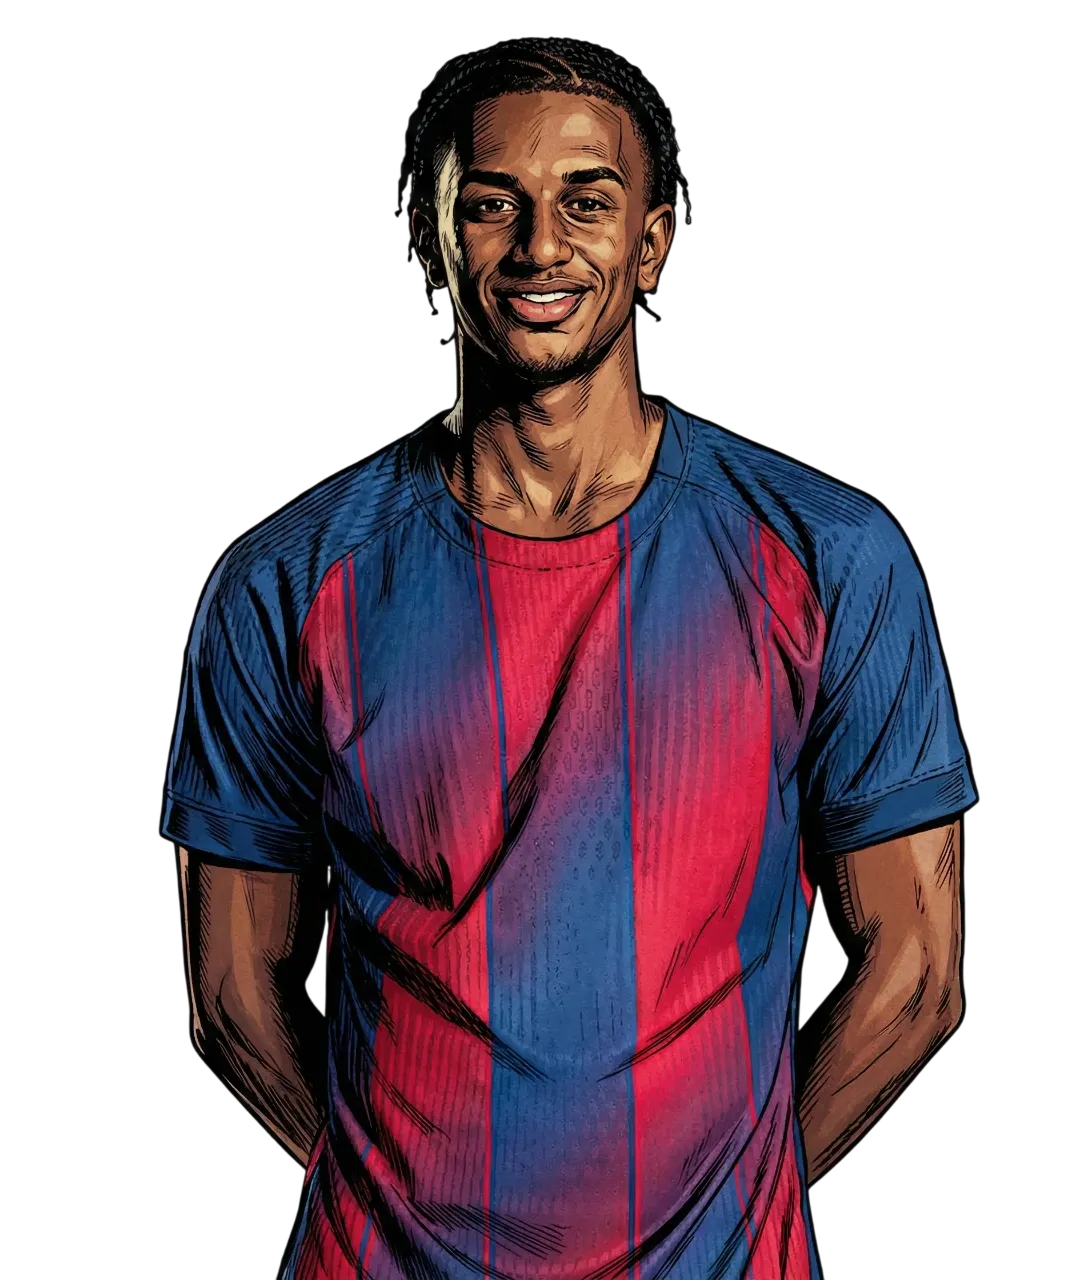
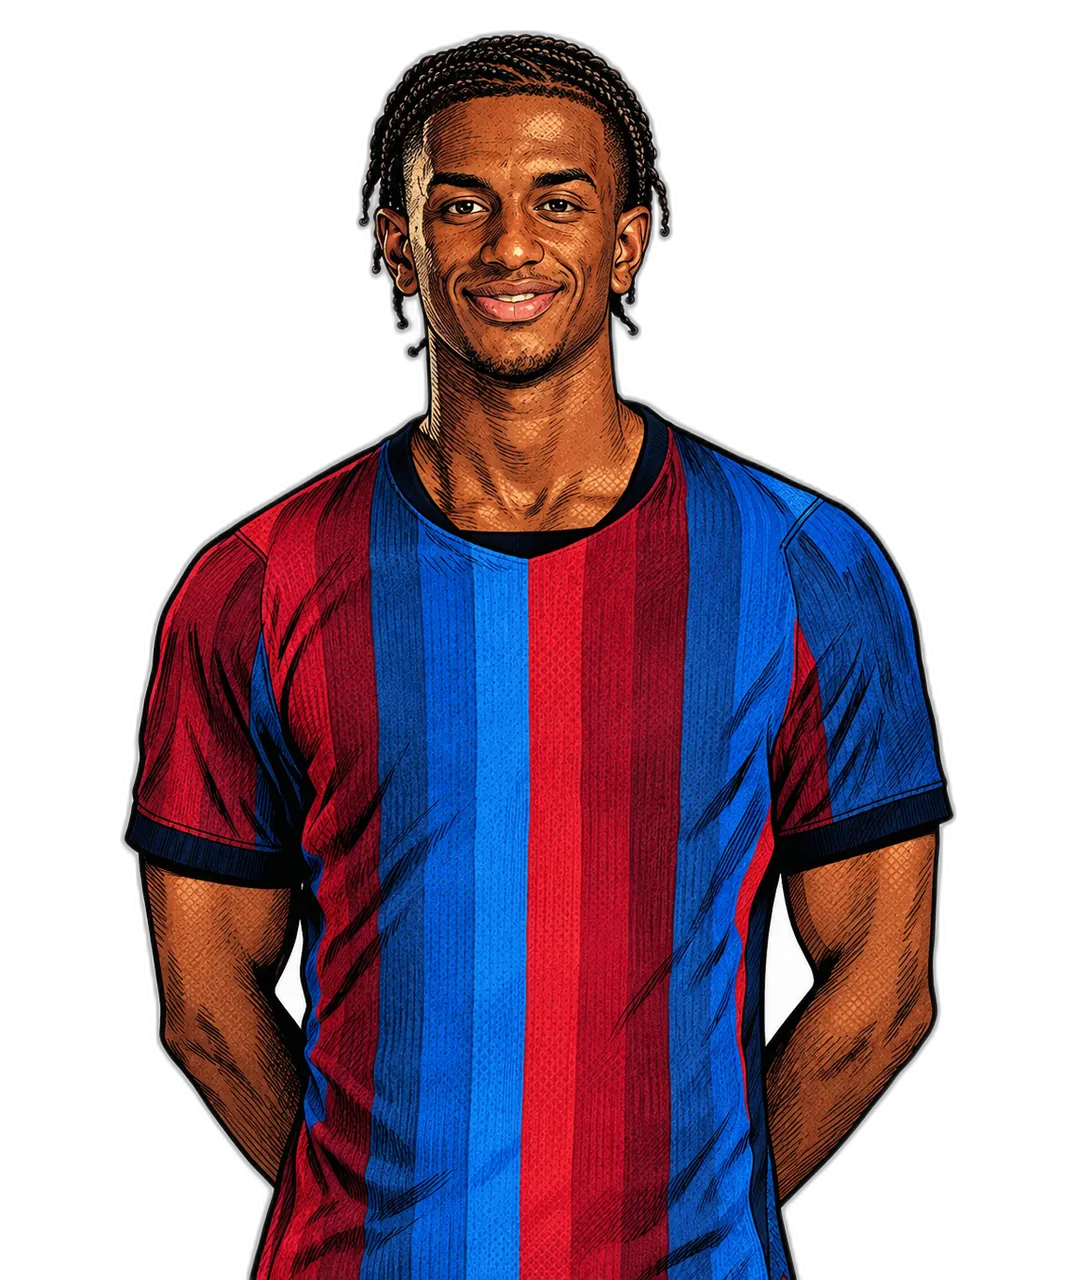
feat(images): refresh current-squad portraits to the 26/27 photos
Adds --refresh-squad: redraws players still on the official first-team page
whose official photo is newer than their portrait's last commit (the photo
URL carries its upload date). Departed players keep their hand-made
portraits; style references moved to two of those (Rashford, Lewandowski)
so a redrawn portrait never becomes the next run's reference.

18 portraits redrawn from the July/August 2026 photo shoot (were January):
Szczesny, Cancelo, Christensen, Olmo, De Jong, Raphinha, Kounde, Eric Garcia,
Pedri, Joan Garcia, Balde, Gavi, Bardghji, Fermin, Lamine, Cubarsi, Bernal,
Gerard Martin. Each checked against its photo (face, pose, kit, no logos).

Also: the club site rate-limits (429) bursts of page reads, so fetch()
retries with Retry-After/backoff and each player page is read once per run.

diff --git a/scripts/player_images.py b/scripts/player_images.py
@@ -5,6 +5,7 @@ Comic-style portraits for players who don't have one yet.
     python3 scripts/player_images.py            # every player in titans_data.ts without an image
     python3 scripts/player_images.py --only gabriel-jesus,rodri --force
     python3 scripts/player_images.py --dry-run  # just list what's missing and where the photo comes from
+    python3 scripts/player_images.py --refresh-squad   # + redraw current players with a newer official photo
 
 Steps per player:
   1. source: the official portrait from fcbarcelona.com (first-team page og:image, a transparent cut-out),
@@ -36,7 +37,9 @@ PLAYERS_DIR = ROOT / 'public' / 'images' / 'players'
 TITANS = ROOT / 'src' / 'lib' / 'titans_data.ts'
 OVERRIDES = Path(__file__).resolve().parent / 'player_images_sources.json'
 WORK = ROOT / '.cache' / 'player-images'
-STYLE_REFS = [PLAYERS_DIR / 'pedri-profile.webp', PLAYERS_DIR / 'marcus-rashford-profile.webp']  # full portraits; face close-ups are cropped from them
+# Hand-made portraits of players who have left, so --refresh-squad never redraws a reference.
+# Full portraits; face close-ups are cropped from them.
+STYLE_REFS = [PLAYERS_DIR / 'marcus-rashford-profile.webp', PLAYERS_DIR / 'robert-lewandowski-profile.webp']
 SQUAD_URL = 'https://www.fcbarcelona.com/en/football/first-team/players'
 SITE = 'https://www.fcbarcelona.com'
 SIZE = (1078, 1280)   # every existing portrait
@@ -90,6 +93,17 @@ def og_image(page: str):
     return m.group(1).split('?')[0] + '?width=3200'  # the image server needs a width; 3200 is the max
 
 
+def photo_date(url: str):
+    """Upload date of an official photo, from its URL (/photo-resources/2026/09/03/...), as 'YYYY-MM-DD'."""
+    m = re.search(r'/(20\d\d)/(\d\d)/(\d\d)/', url or '')
+    return '-'.join(m.groups()) if m else None
+
+
+def is_stale(portrait_date, official_date):
+    """A portrait needs redrawing when the club has published a newer photo than it was made from."""
+    return bool(official_date) and (portrait_date is None or official_date > portrait_date)
+
+
 def prepare(img):
     """Source for the generator: a cut-out is cropped to the player and centred on white in 5:6;
     an ordinary photo is passed through (downscaled)."""
@@ -130,10 +144,38 @@ def coverage(img):
 
 # ---------- I/O ----------
 
-def fetch(url: str) -> bytes:
-    req = urllib.request.Request(url, headers={'User-Agent': UA})
-    with urllib.request.urlopen(req, timeout=60) as r:
-        return r.read()
+def fetch(url: str, tries: int = 5) -> bytes:
+    """GET with retries: the club site rate-limits (429) when many player pages are read in a row."""
+    import time
+    import urllib.error
+    for attempt in range(tries):
+        try:
+            req = urllib.request.Request(url, headers={'User-Agent': UA})
+            with urllib.request.urlopen(req, timeout=60) as r:
+                return r.read()
+        except urllib.error.HTTPError as e:
+            if e.code not in (429, 500, 502, 503, 504) or attempt == tries - 1:
+                raise
+            wait = int(e.headers.get('Retry-After') or 0) or 5 * 2 ** attempt
+            time.sleep(min(wait, 120))
+
+
+_portraits = {}
+
+
+def official_portrait(path: str):
+    """og:image portrait URL for a player page, fetched once per run and spaced out (rate limit)."""
+    import time
+    if path not in _portraits:
+        _portraits[path] = og_image(fetch(SITE + path).decode('utf-8', 'replace'))
+        time.sleep(1)
+    return _portraits[path]
+
+
+def portrait_date(path: Path):
+    """Date the portrait was last committed ('YYYY-MM-DD'), or None if it isn't in git yet."""
+    out = subprocess.run(['git', 'log', '-1', '--format=%cs', '--', str(path)], cwd=ROOT, capture_output=True, text=True)
+    return out.stdout.strip() or None
 
 
 def players_from_data():
@@ -228,6 +270,8 @@ def main():
     ap.add_argument('--force', action='store_true', help='regenerate even if the image exists')
     ap.add_argument('--dry-run', action='store_true', help='list players and photo sources, generate nothing')
     ap.add_argument('--jobs', type=int, default=3, help='players generated in parallel (default 3)')
+    ap.add_argument('--refresh-squad', action='store_true',
+                    help='also redraw current first-team players whose official photo is newer than their portrait')
     args = ap.parse_args()
     if args.force and not args.only:
         ap.error('--force needs --only: it would otherwise redraw every hand-made portrait')
@@ -236,6 +280,18 @@ def main():
     only = set(args.only.split(',')) if args.only else None
     todo = {s: n for s, n in names.items()
             if (only is None or s in only) and (args.force or not (PLAYERS_DIR / f'{s}-profile.webp').exists())}
+    squad = parse_squad(fetch(SQUAD_URL).decode('utf-8', 'replace'))
+    refresh = set()
+    if args.refresh_squad:
+        # Only players still at the club (on the official page); departed players keep their portrait.
+        for s, n in names.items():
+            dest = PLAYERS_DIR / f'{s}-profile.webp'
+            hit = match_player(n, squad) if dest.exists() and s not in todo else None
+            url = official_portrait(hit[1]) if hit else None
+            if url and is_stale(portrait_date(dest), photo_date(url)):
+                todo[s] = n
+                refresh.add(s)
+                print(f'refresh {s:<22} portrait {portrait_date(dest)} < official photo {photo_date(url)}')
     if only and only - set(names):
         print(f'Unknown slugs: {", ".join(sorted(only - set(names)))}', file=sys.stderr)
     if not todo:
@@ -243,14 +299,13 @@ def main():
         return 0
 
     overrides = json.loads(OVERRIDES.read_text()) if OVERRIDES.exists() else {}
-    squad = parse_squad(fetch(SQUAD_URL).decode('utf-8', 'replace'))
     sources, problems = {}, []
     for slug, name in sorted(todo.items()):
         if slug in overrides:
             sources[slug] = overrides[slug]
             continue
         hit = match_player(name, squad)
-        url = og_image(fetch(SITE + hit[1]).decode('utf-8', 'replace')) if hit else None
+        url = official_portrait(hit[1]) if hit else None
         if url:
             sources[slug] = {'url': url}
         else:
@@ -265,7 +320,7 @@ def main():
 
     done = []
     with concurrent.futures.ThreadPoolExecutor(max_workers=max(1, args.jobs)) as pool:
-        futures = {pool.submit(make, s, src, refs, args.force): s for s, src in sources.items()}
+        futures = {pool.submit(make, s, src, refs, args.force or s in refresh): s for s, src in sources.items()}
         for f in concurrent.futures.as_completed(futures):
             slug = futures[f]
             try:

diff --git a/scripts/test_player_images.py b/scripts/test_player_images.py
@@ -115,6 +115,24 @@ class Prompt(unittest.TestCase):
         self.assertIn('Note: the one in orange', P.PROMPT.format(out='x.png', hint='Note: the one in orange\n'))
 
 
+class Refresh(unittest.TestCase):
+    def test_photo_date_from_url(self):
+        self.assertEqual(P.photo_date('https://www.fcbarcelona.com/photo-resources/2026/09/03/f8d9/09-Gabriel_Jesus.png?width=3200'), '2026-09-03')
+        self.assertIsNone(P.photo_date('https://x/i/elements/fcb-share.png'))
+        self.assertIsNone(P.photo_date(None))
+
+    def test_stale_only_when_official_photo_is_newer(self):
+        self.assertTrue(P.is_stale('2026-03-13', '2026-09-03'))
+        self.assertFalse(P.is_stale('2026-11-24', '2026-09-03'))  # drawn after the photo came out
+        self.assertFalse(P.is_stale('2026-09-03', '2026-09-03'))
+        self.assertTrue(P.is_stale(None, '2026-09-03'))           # not committed yet
+        self.assertFalse(P.is_stale('2026-03-13', None))          # no dated official photo: leave it
+
+    def test_style_references_are_departed_players(self):
+        # A refreshed portrait must never become the style reference for the next run.
+        self.assertEqual([r.name for r in P.STYLE_REFS], ['marcus-rashford-profile.webp', 'robert-lewandowski-profile.webp'])
+
+
 class Cli(unittest.TestCase):
     def test_force_without_only_is_refused(self):
         import subprocess

diff --git a/README.md b/README.md
@@ -52,10 +52,11 @@ Every player gets a comic-style portrait at `public/images/players/<slug>-profil
 npm run player-images -- --dry-run   # who is missing, and which official photo each will use
 npm run player-images                # generate them (about 1.5 min per player, 3 in parallel)
 npm run player-images -- --only rodri --force   # redo one
+npm run player-images -- --refresh-squad      # also redraw current players whose official photo is newer (new season kit)
 npm run test:images                  # offline tests for the script
 ```
 
-[`scripts/player_images.py`](scripts/player_images.py) takes the official portrait from the player's fcbarcelona.com page, has the local **Codex CLI** convert it to comic style (hand-inked like two existing portraits) while keeping the person, pose and kit from the photo and removing every logo, cuts out the background with `rembg`, and places the figure like the rest of the set. It never overwrites an existing image without `--force`, and it writes a source-vs-result sheet to `.cache/player-images/review.png`: **look at it before committing**, because AI likeness can miss.
+[`scripts/player_images.py`](scripts/player_images.py) takes the official portrait from the player's fcbarcelona.com page, has the local **Codex CLI** convert it to comic style (hand-inked like the hand-made Rashford and Lewandowski portraits, which never get redrawn) while keeping the person, pose and kit from the photo and removing every logo, cuts out the background with `rembg`, and places the figure like the rest of the set. It never overwrites an existing image without `--force`, and it writes a source-vs-result sheet to `.cache/player-images/review.png`: **look at it before committing**, because AI likeness can miss.
 
 Players without an official portrait (Barça Atlètic call-ups) need a photo in [`scripts/player_images_sources.json`](scripts/player_images_sources.json): a URL plus a `hint` saying which person in the photo is the player. Codex was chosen over Gemini (`agy`) after a side-by-side: Gemini kept the style but changed hair colour and faces. Needs `codex` logged in, plus Pillow and `rembg` (`pip install pillow rembg`).
 
